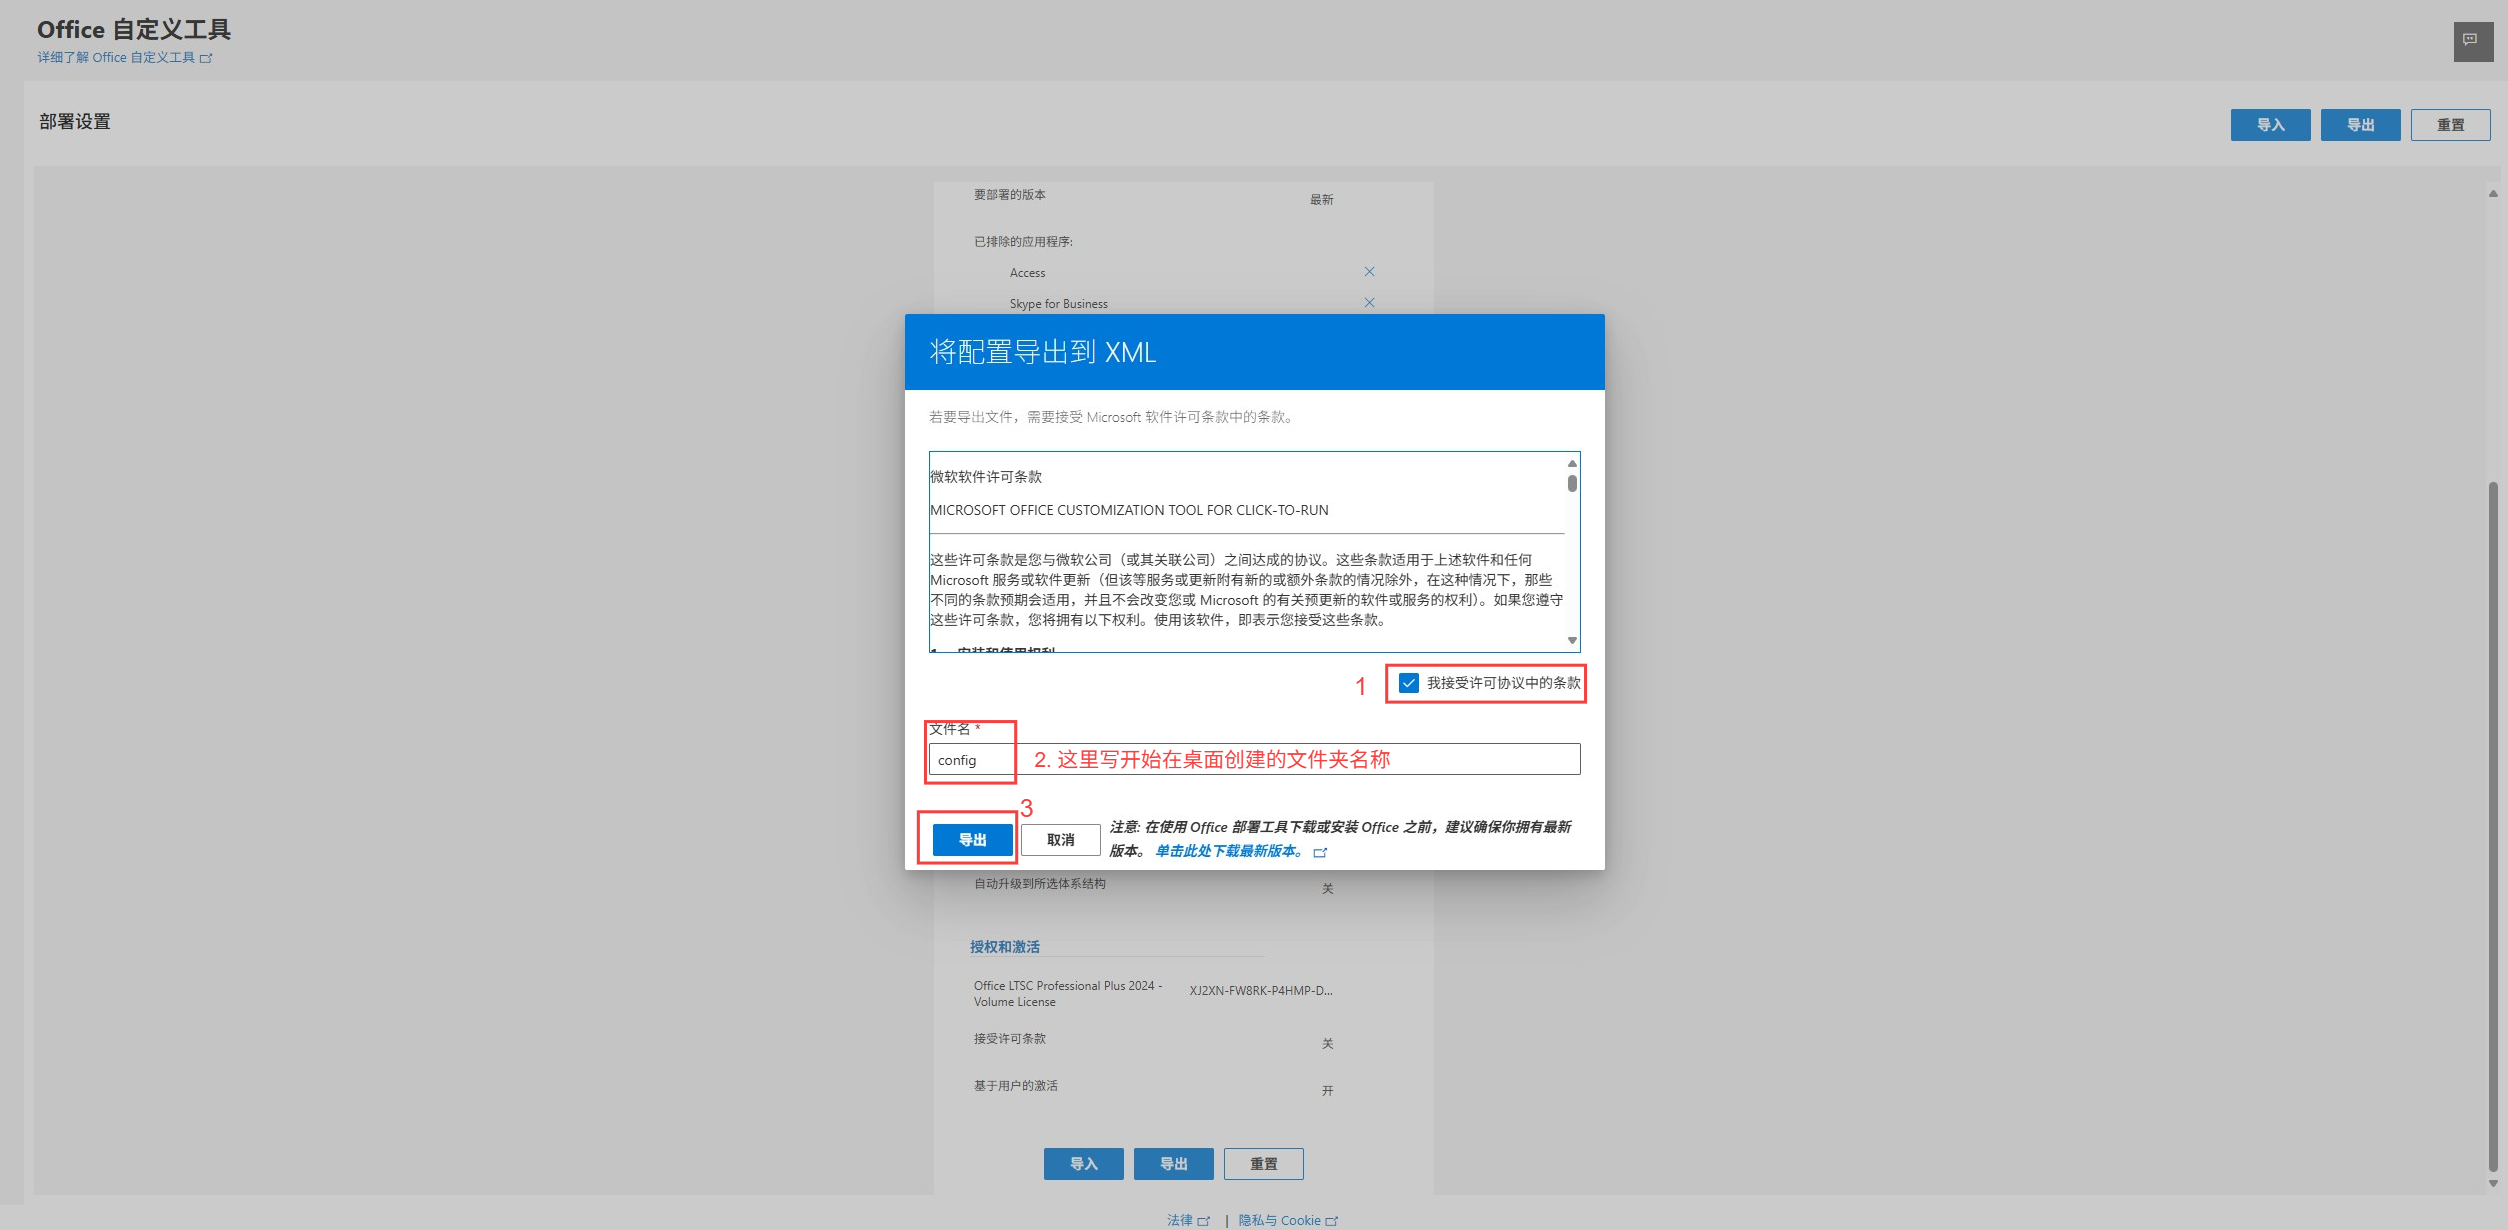
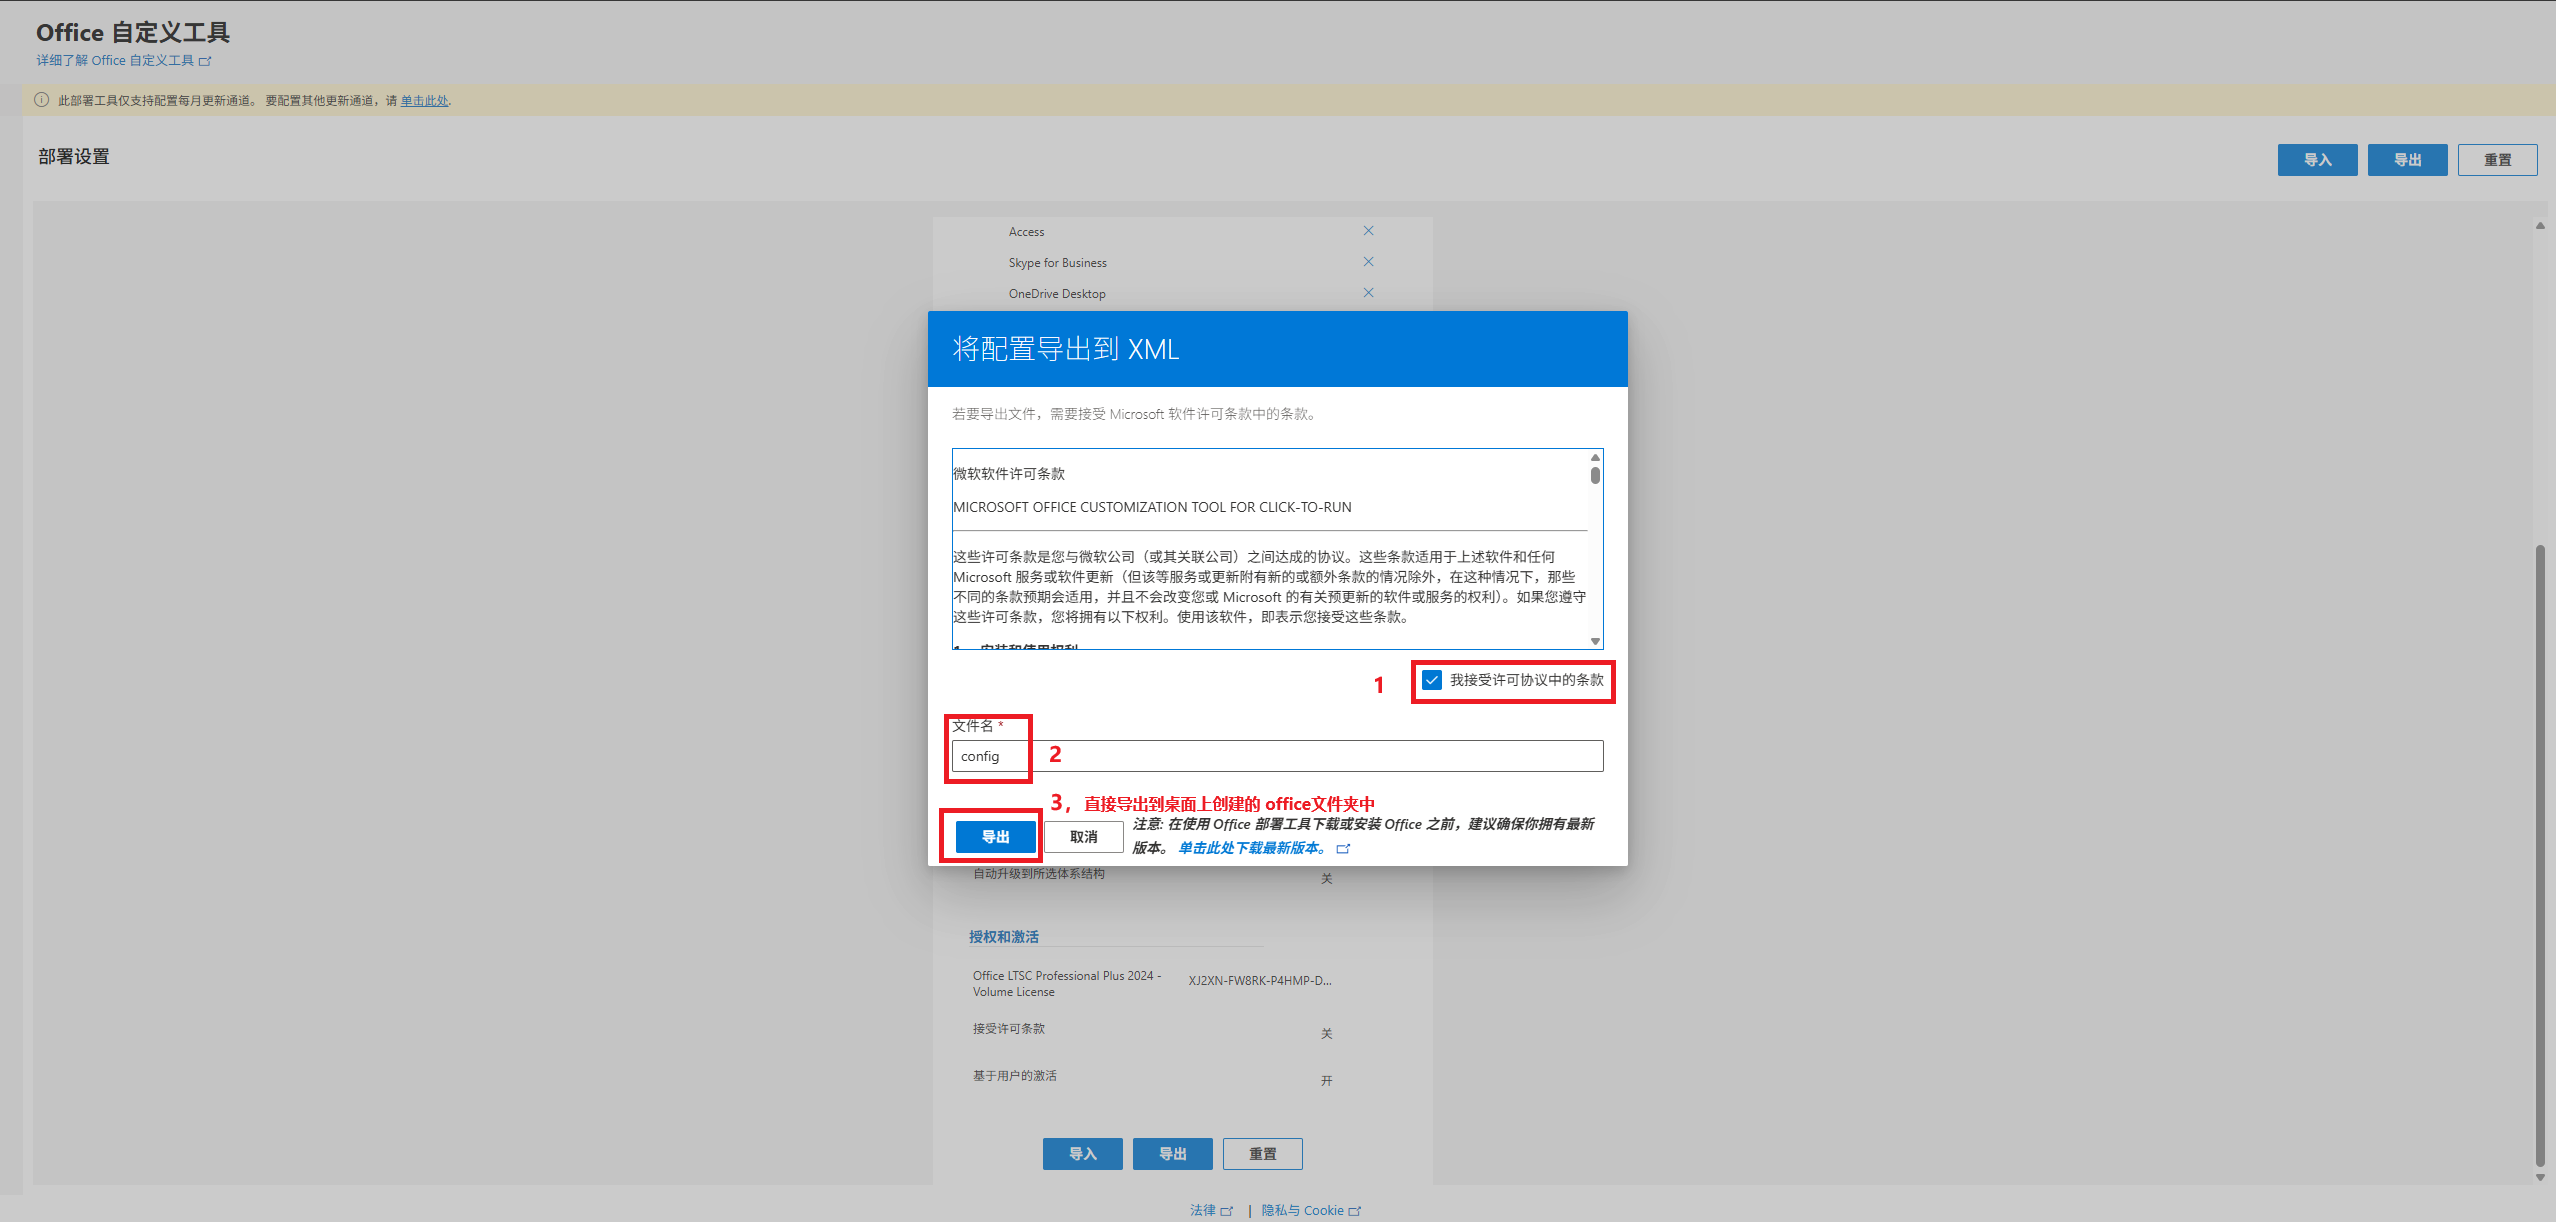
docs: update README and project screenshots

diff --git a/office 2024/README.md b/office 2024/README.md
@@ -2,10 +2,10 @@
 
 ## 步骤一 [下载部署工具](https://www.microsoft.com/en-us/download/details.aspx?id=49117)
 
-1. 首先在桌面创建一个 `config` 文件夹
-2. 打开 `部署工具` 选择 `config` 文件夹将会下载两个文件在此文件中，需要删除 `configuration-Office365-x64` 文件;
+1. 首先在桌面创建一个 `office` 文件夹
+2. 打开 `部署工具` 选择 `office` 文件夹将会下载两个文件在此文件中，需要删除 `configuration-Office365-x64` 文件;
 
-## 步骤二 [设置office版本](https://config.office.com/deploymentsettings)
+## 步骤二 [设置`office`版本](https://config.office.com/deploymentsettings)
 
 1. 产品和版本
 <img src="https://github.com/Skyler-May/FreeParty/blob/main/office%202024/img/1-Products-Versions.png" />
@@ -28,17 +28,17 @@
 7. 应用程序首选项
 <img src="https://github.com/Skyler-May/FreeParty/blob/main/office%202024/img/7-Application-Preferences.png" />
 
-8. 导出 `XML`  文件到创建好的 `config` 文件夹中
+8. 导出 `XML`  文件到创建好的 `office` 文件夹中
 <img src="https://github.com/Skyler-May/FreeParty/blob/main/office%202024/img/8-export.png" />
 <img src="https://github.com/Skyler-May/FreeParty/blob/main/office%202024/img/9-export-2.png" />
 
 ## 步骤三 （重点）
 
-1. 管理员运行 `cmd`, 并将桌面上的 `config` 路径复制到终端按回车
+1. 管理员运行 `cmd`, 并将桌面上的 `office` 路径复制到终端按回车
 
 ```bash
 # 根据自己的实际路径修改
-cd C:\...\...\Desktop\config 
+cd C:\Users\你的用户名\Desktop\office
 
 # 下载命令（此过程时间较长，可打开 任务管理器-->性能-->以太网 查看下载状态）
 setup /download config.xml